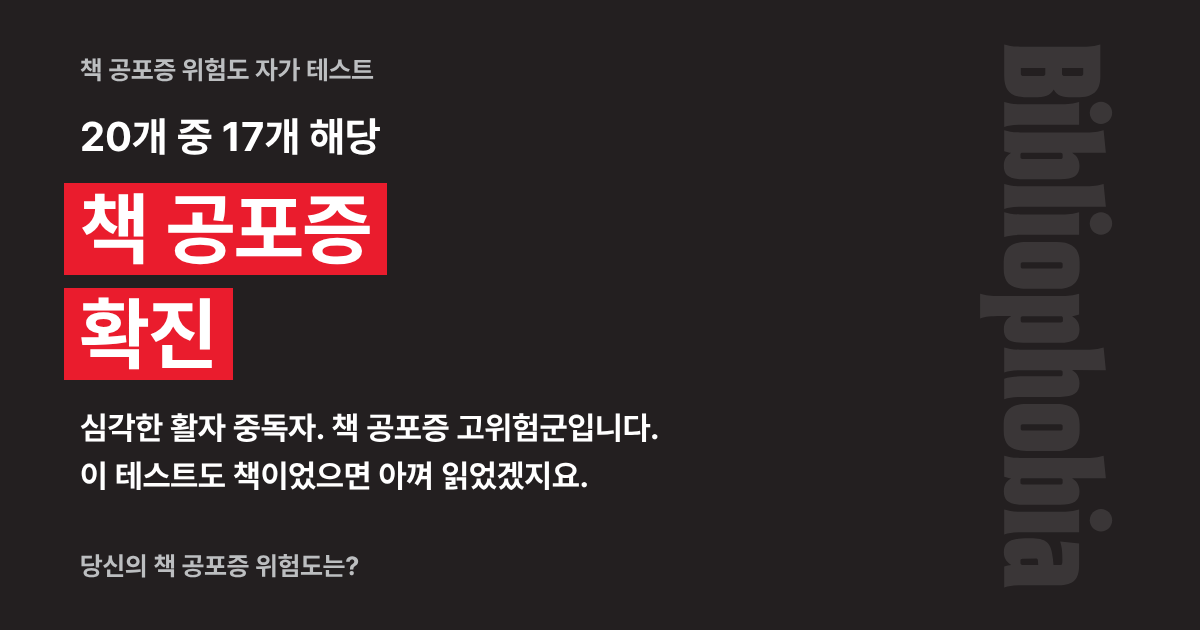
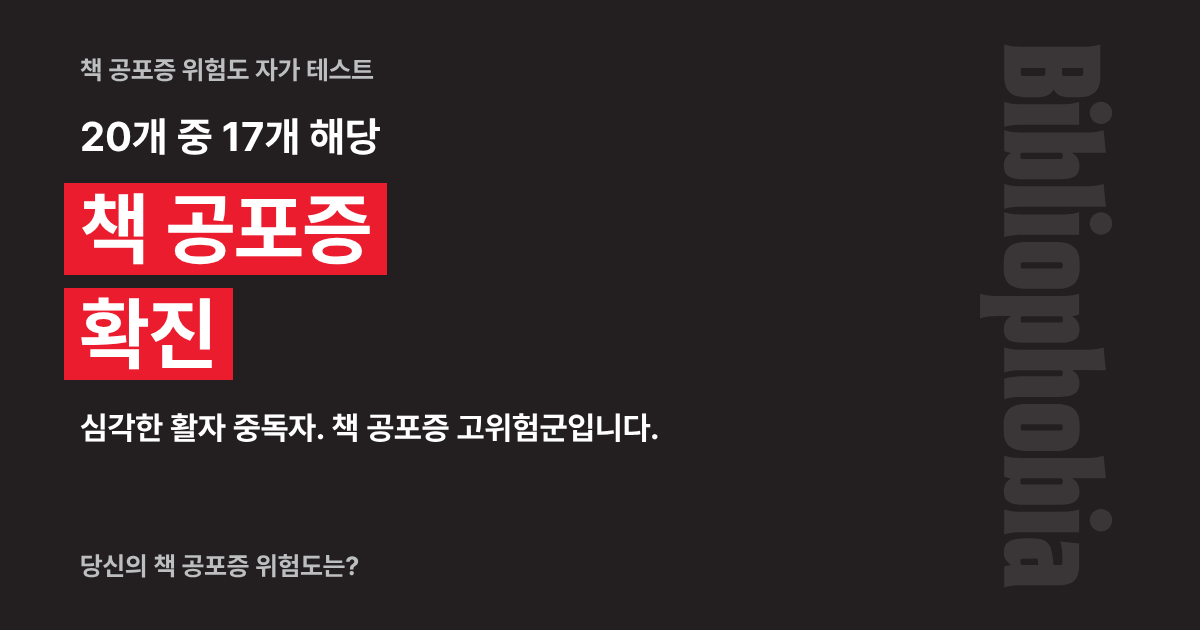
자가 테스트 확진 문안에서 '이 테스트도 책이었으면…' 삭제(카드·공유 이미지)
Claude-Session: https://claude.ai/code/session_01Mwj6J4BgYV14Q1VB2GfRNz

Changed region(s): [[0.0617, 0.7238, 0.4933, 0.7841]]

diff --git a/static/bibliophobia-test/index.html b/static/bibliophobia-test/index.html
@@ -243,7 +243,7 @@ const bands=[
 {id:"r1",min:0,max:5,band:"책과 안전거리 유지 중",text:"책은 그저 책일 뿐. 서점은 약속 장소로만 씁니다."},
 {id:"r2",min:6,max:11,band:"책 공포증 잠복기",text:"읽다 만 책이 쌓여 있는 당신, 책 공포증 위험군입니다."},
 {id:"r3",min:12,max:16,band:"책 공포증 진행 중",text:"책 없이는 못 사는 당신, 이미 책 공포증 진행 중입니다."},
-{id:"r4",min:17,max:20,band:"책 공포증 확진",text:"심각한 활자 중독자. 책 공포증 고위험군입니다. 이 테스트도 책이었으면 아껴 읽었겠지요."}];
+{id:"r4",min:17,max:20,band:"책 공포증 확진",text:"심각한 활자 중독자. 책 공포증 고위험군입니다."}];
 const $=s=>document.getElementById(s);
 const esc=t=>t.replace(/&/g,'&amp;').replace(/</g,'&lt;');
 $('list').innerHTML=items.map((t,i)=>`<li><label for="q${i}"><input type="checkbox" id="q${i}"><span>${esc(t)}</span></label></li>`).join('');
@@ -294,7 +294,7 @@ function draw(){
   c.font=`700 38px ${F}`;
   const ql=[];{let line='';for(const wd of QUOTES[qi%QUOTES.length].split(' ')){const t=line?line+' '+wd:wd;if(c.measureText(t).width>W-192&&line){ql.push(line);line=wd}else line=t}ql.push(line)}
   const qlh=58,qEnd=1724,qTop=qEnd-(ql.length-1)*qlh-qlh;
-  const TEXT={r1:['책은 그저 책일 뿐.','서점은 약속 장소로만 씁니다.'],r2:['읽다 만 책이 쌓여 있는 당신,','책 공포증 위험군입니다.'],r3:['책 없이는 못 사는 당신,','이미 책 공포증 진행 중입니다.'],r4:['심각한 활자 중독자.','책 공포증 고위험군입니다.','이 테스트도 책이었으면','아껴 읽었겠지요.']};
+  const TEXT={r1:['책은 그저 책일 뿐.','서점은 약속 장소로만 씁니다.'],r2:['읽다 만 책이 쌓여 있는 당신,','책 공포증 위험군입니다.'],r3:['책 없이는 못 사는 당신,','이미 책 공포증 진행 중입니다.'],r4:['심각한 활자 중독자.','책 공포증 고위험군입니다.']};
   const top=Math.min(600,qTop-60-70-(90+128*0.82+2*176+20+(TEXT[b.id].length-1)*92));   // 결과 문구가 인용구 구분선과 겹치지 않게
   c.fillStyle='#fff';c.font=`700 54px ${F}`;c.fillText(`${items.length}개 중 ${k}개 해당`,96,top);
   const LINES={r1:['책과 안전거리','유지 중'],r2:['책 공포증','잠복기'],r3:['책 공포증','진행 중'],r4:['책 공포증','확진']};
